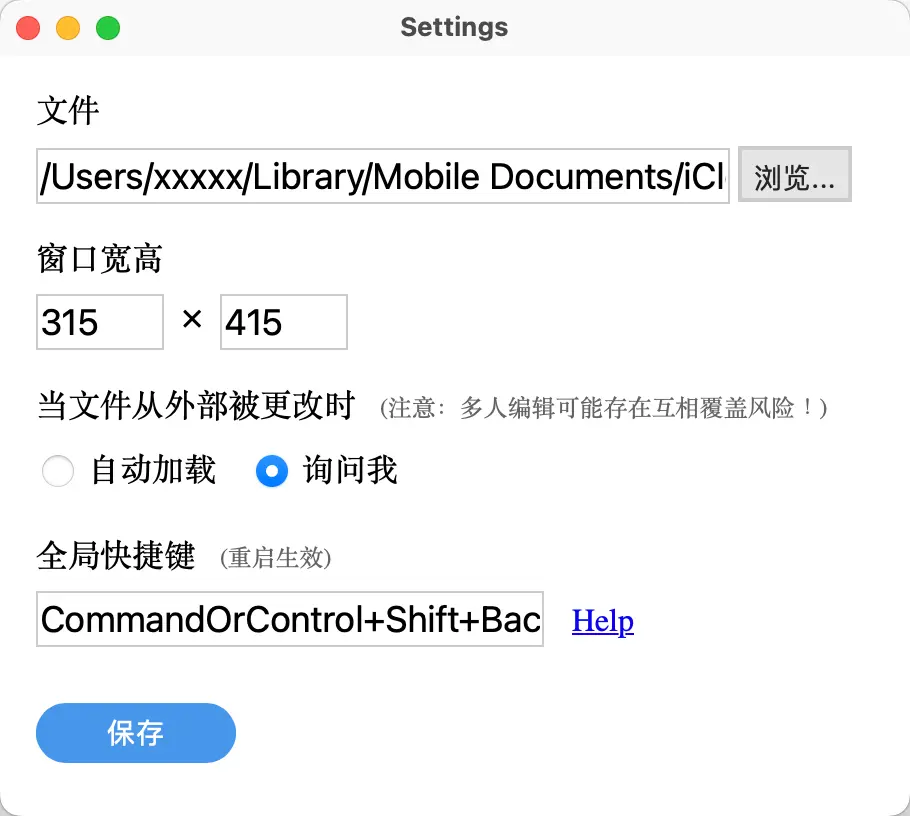
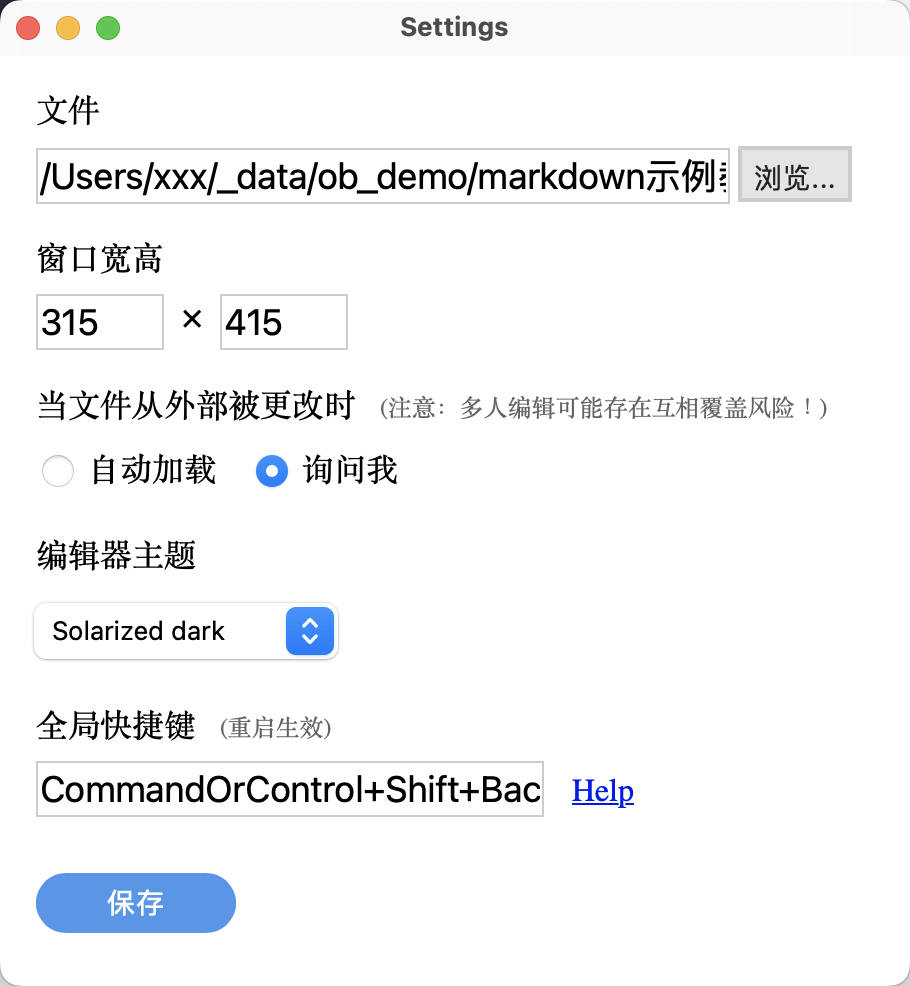
add images

diff --git a/README.md b/README.md
@@ -21,6 +21,21 @@ DocOnTop 就是为这个需求而开发的。
 
 ![](https://cdn.jsdelivr.net/gh/wish5115/Niva-DocOnTop@main/screenshots/app-20240405153218437.png)
 
+**这是样式**
+
+![](https://cdn.jsdelivr.net/gh/wish5115/Niva-DocOnTop@main/screenshots/theme-list.png)
+
+<div>
+
+![](https://cdn.jsdelivr.net/gh/wish5115/Niva-DocOnTop@main/screenshots/theme-default.png)
+
+![](https://cdn.jsdelivr.net/gh/wish5115/Niva-DocOnTop@main/screenshots/theme-monokai.png)
+
+![](https://cdn.jsdelivr.net/gh/wish5115/Niva-DocOnTop@main/screenshots/theme-solarized-light.png)
+
+![](https://cdn.jsdelivr.net/gh/wish5115/Niva-DocOnTop@main/screenshots/theme-solarized-dark.png)
+
+</div>
 
 
 ## 使用
